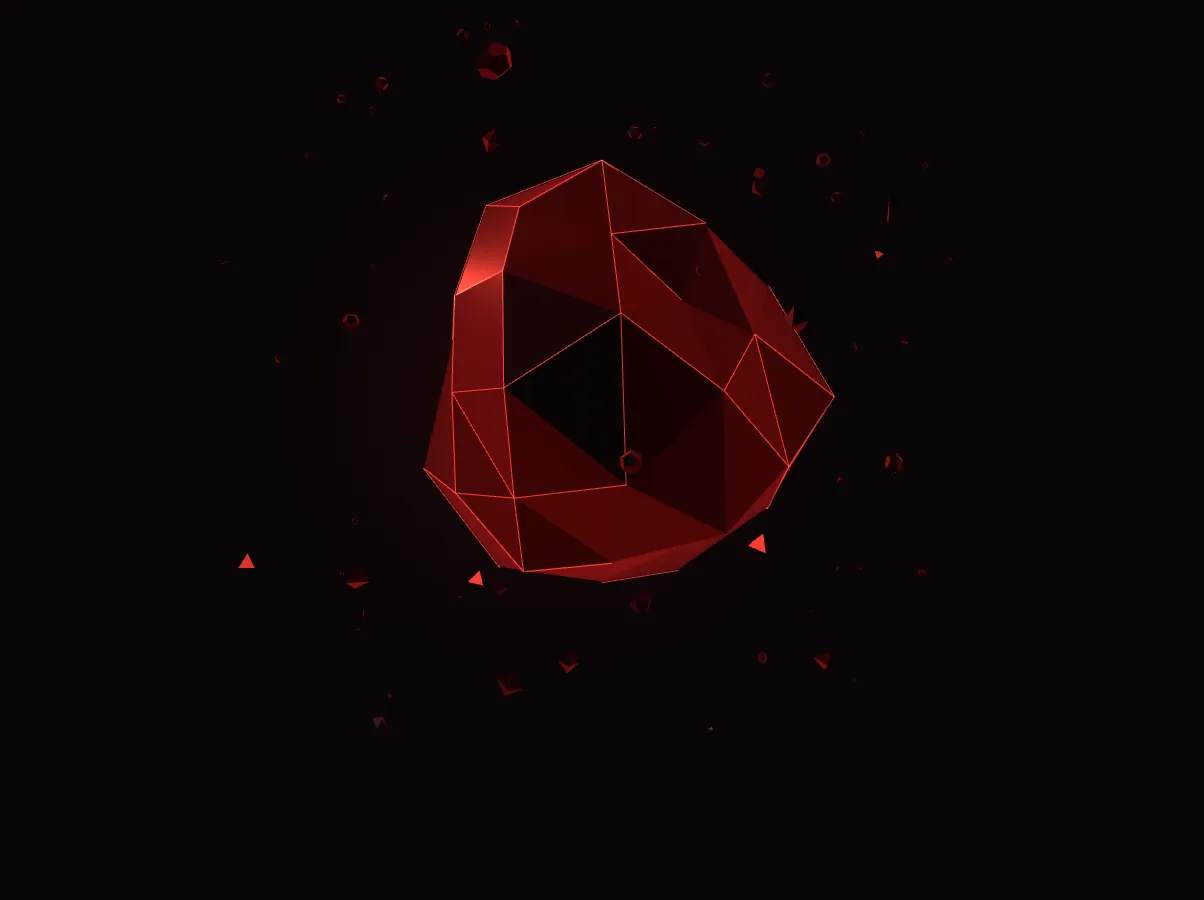
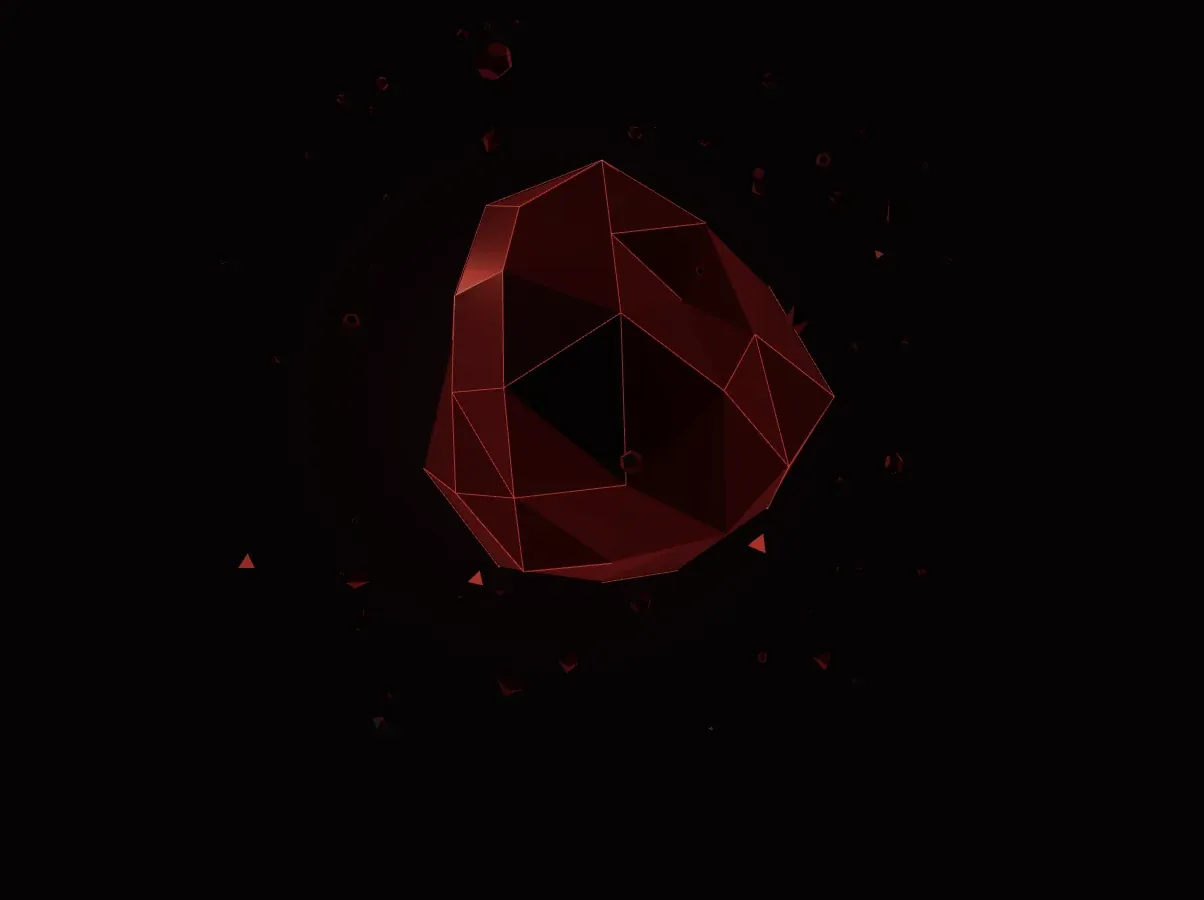
minimal: audit pass (scan on arrival with facts, live proof per project, one motion language, quiet pills, experience trace, skills list in place)

Changed region(s): [[0.338, 0.1867, 0.7068, 0.6533], [0.3995, 0.0622, 0.4302, 0.0933]]

diff --git a/minimal/app/globals.css b/minimal/app/globals.css
@@ -191,11 +191,12 @@ html.js .rv.in { opacity: 1; transform: none; }
 @media (max-width: 560px) { .pnl-inner { padding-left: 18px; } .pnl-head { gap: 12px; padding: 12px 14px; } .pnl-state { display: none; } }
 @media (prefers-reduced-motion: reduce) { .pnl-body, .pnl-sw i { transition: none; } }
 /* ---- hero photo: scan, black and white to colour ---- */
-.hero-photo img.ph-color { position: absolute; inset: 0; z-index: 2; width: 100%; height: 100%; object-fit: cover; display: block; clip-path: inset(0 0 0 0); animation: ph-color 1.6s .6s cubic-bezier(.45, 0, .25, 1) backwards; pointer-events: none; }
-.ph-scan { position: absolute; left: -10px; right: -10px; top: 0; z-index: 3; height: 2px; background: var(--blood-hot); box-shadow: 0 0 14px 2px rgba(224, 17, 43, .75); animation: ph-scan 1.6s .6s cubic-bezier(.45, 0, .25, 1) both; pointer-events: none; }
-.ph-color.again, .ph-scan.again { animation-delay: 0s; }
+.hero-photo img.ph-color { position: absolute; inset: 0; z-index: 2; width: 100%; height: 100%; object-fit: cover; display: block; clip-path: inset(0 0 0 0); animation: ph-color 1.6s .4s cubic-bezier(.45, 0, .25, 1) backwards; pointer-events: none; }
+.ph-scan { position: absolute; left: -10px; right: -10px; top: 0; bottom: 0; z-index: 3; pointer-events: none; animation: ph-scan 1.6s .4s cubic-bezier(.45, 0, .25, 1) both; }
+.ph-scan::before { content: ""; position: absolute; left: 0; right: 0; top: 0; height: 2px; margin-top: -1px; background: var(--blood-hot); box-shadow: 0 0 12px 2px rgba(224, 17, 43, .7); }
+.ph-color.again, .ph-scan.again, .ph-fact.again { animation-delay: 0s; }
 @keyframes ph-color { from { clip-path: inset(0 0 100% 0); } to { clip-path: inset(0 0 0 0); } }
-@keyframes ph-scan { 0% { top: 0; opacity: 1; } 92% { opacity: 1; } 100% { top: 100%; opacity: 0; } }
+@keyframes ph-scan { 0% { transform: translateY(0); opacity: 1; } 92% { opacity: 1; } 100% { transform: translateY(100%); opacity: 0; } }
 .hero-photo figcaption { display: flex; justify-content: space-between; gap: 12px; }
 @media (prefers-reduced-motion: reduce) { .ph-scan { display: none; } .ph-color { animation: none; } }
 
@@ -421,3 +422,57 @@ html:not(.js) .sk-all, .sk3d.no-gl .sk-all { display: none; }
 .sound.on i:nth-child(2) { animation-delay: -.3s; } .sound.on i:nth-child(3) { animation-delay: -.6s; } .sound.on i:nth-child(4) { animation-delay: -.15s; }
 @keyframes lvl { from { transform: scaleY(.25); } to { transform: scaleY(1); } }
 @media (prefers-reduced-motion: reduce) { .sound.on i { animation: none; } }
+
+/* ================= audit pass: one motion language (scan, trace, depth) ================= */
+/* the photo scan waits until the photo is actually on screen */
+.ph:not(.go) .ph-color, .ph:not(.go) .ph-scan, .ph:not(.go) .ph-fact { animation-play-state: paused; }
+.ph:not(.go) .ph-scan { visibility: hidden; }
+/* facts pinned to the photo as the scan line passes them */
+.ph-fact { position: absolute; z-index: 4; translate: 0 -50%; padding: 4px 8px; font: 500 10.5px/1 var(--mono); letter-spacing: .12em; text-transform: uppercase; color: var(--text); white-space: nowrap;
+  background: rgba(10, 5, 6, .82); border: 1px solid var(--blood); border-radius: 4px; pointer-events: none;
+  animation: ph-fact .45s calc(.4s + var(--at) * 1.25s) var(--ease) backwards; }
+.ph-fact.l { left: -14px; } .ph-fact.r { right: -14px; }
+.ph-fact.l::before, .ph-fact.r::after { content: ""; position: absolute; top: 50%; width: 10px; height: 1px; background: var(--blood-hot); }
+.ph-fact.l::before { right: -10px; } .ph-fact.r::after { left: -10px; }
+@keyframes ph-fact { from { opacity: 0; transform: translateX(-8px); } to { opacity: 1; transform: none; } }
+.ph-fact.r { animation-name: ph-fact-r; } @keyframes ph-fact-r { from { opacity: 0; transform: translateX(8px); } to { opacity: 1; transform: none; } }
+@media (max-width: 560px) { .ph-fact.l { left: 8px; } .ph-fact.r { right: 8px; } .ph-fact::before, .ph-fact::after { display: none; } }
+@media (prefers-reduced-motion: reduce) { .ph-fact { animation: none; } }
+
+/* skill pills are labels, not buttons: no hover lift or border change */
+.chips li { cursor: default; } .chips li:hover { transform: none; border-color: var(--line-2); }
+.chips li.used:hover { border-color: rgba(224, 17, 43, .55); }
+
+/* leadership: keep the sweep (scan) and the cascade; drop the spark and flicker */
+.pnl-row.is-on[data-touched] .pnl-sw::after, .pnl-row.is-on[data-touched] .pnl-logo, .pnl-row.is-on[data-touched] .pnl-state,
+.pnl-row[data-touched]:not(.is-on) .pnl-logo, .pnl-row[data-touched]:not(.is-on) .pnl-state { animation: none; }
+
+/* the photo section no longer repeats the name: its intro opens it */
+.hero .hero-intro { margin-top: 0; font-size: 17px; }
+
+/* project proof: one real number, drawn as the card arrives */
+.proof { margin: 0 0 16px; }
+.proof-n { display: flex; align-items: baseline; gap: 10px; margin: 0; } .proof-n b { font-size: 26px; font-weight: 400; color: var(--text); } .proof-n span { font-size: 11px; letter-spacing: .1em; text-transform: uppercase; color: var(--dim); }
+.proof-bar { position: relative; height: 8px; margin-top: 10px; border-radius: 2px; background: var(--line); }
+.proof-fill { position: absolute; inset: 0; border-radius: 2px; background: var(--blood-hot); transform-origin: 0 50%; transform: scaleX(var(--v)); }
+.proof-bar.ticks { background: repeating-linear-gradient(90deg, var(--line) 0 2px, transparent 2px 4px); }
+.proof-bar.ticks .proof-fill { background: repeating-linear-gradient(90deg, var(--blood-hot) 0 2px, transparent 2px 4px); }
+.proof-limit { position: absolute; top: -5px; bottom: -5px; width: 2px; background: var(--text); }
+.proof-limit span { position: absolute; top: -18px; left: 50%; translate: -50% 0; font-size: 9.5px; letter-spacing: .08em; text-transform: uppercase; color: var(--text); white-space: nowrap; }
+.proof { padding-top: 14px; } .proof figcaption { margin-top: 8px; font-size: 11px; color: var(--dim); }
+
+/* experience: a red trace draws down the date column as you read */
+.rows { position: relative; }
+.rows::before { content: ""; position: absolute; left: -14px; top: 0; bottom: 0; width: 1px; background: linear-gradient(var(--blood-hot), var(--blood)); transform-origin: 50% 0; transform: scaleY(1); opacity: .7; }
+
+/* skills: the full list opens in place under the corridor */
+html.js .sk3d.show-list:not(.no-gl) .sk-list { position: static; width: auto; height: auto; margin: 26px 0 0; overflow: visible; clip: auto; white-space: normal; }
+
+@media (prefers-reduced-motion: no-preference) { @supports (animation-timeline: view()) {
+  .proof-fill { animation: proof-draw linear both; animation-timeline: view(); animation-range: entry 30% cover 45%; }
+  @keyframes proof-draw { from { transform: scaleX(0); } to { transform: scaleX(var(--v)); } }
+  .rows::before { animation: trace linear both; animation-timeline: view(); animation-range: entry 10% exit 60%; }
+  @keyframes trace { from { transform: scaleY(0); } to { transform: scaleY(1); } }
+} }
+@media (max-width: 900px) { .rows::before { left: -10px; } }
+.proof-n b { white-space: nowrap; } .proof-n { flex-wrap: wrap; row-gap: 2px; } .proof-bar { margin-top: 24px; }

diff --git a/minimal/components/PhotoScan.tsx b/minimal/components/PhotoScan.tsx
@@ -1,23 +1,41 @@
 "use client";
-import { useRef, useState } from "react";
+import { useEffect, useRef, useState } from "react";
 
-/* The photo starts in black and white. A red scan line sweeps down once on load and full colour develops behind it. Hovering runs the scan again. */
+/* The photo starts in black and white. When it comes into view (not on page load, when nobody can see it), a red scan
+   line sweeps down, full colour develops behind it, and three facts are pinned to the photo as the line passes them.
+   Hovering runs the scan again. */
+const TAGS = [
+  { text: "BSIT · Data Science", at: 0.2, side: "l" },
+  { text: "PUP Manila", at: 0.5, side: "r" },
+  { text: "Open to internships", at: 0.78, side: "l" },
+];
+
 export function PhotoScan({ children }: { children: React.ReactNode }) {
   const [run, setRun] = useState(0);
+  const [go, setGo] = useState(false);
+  const box = useRef<HTMLDivElement>(null);
   const last = useRef(0);
+  useEffect(() => {
+    const io = new IntersectionObserver(([e]) => { if (e.isIntersecting) { setGo(true); io.disconnect(); } }, { threshold: 0.45 });
+    if (box.current) io.observe(box.current);
+    return () => io.disconnect();
+  }, []);
   const again = () => {
     const now = Date.now();
-    if (now - last.current < 2200) return;   // let a sweep finish before another can start
+    if (!go || now - last.current < 2200) return;   // let a sweep finish before another can start
     last.current = now;
     setRun((r) => r + 1);
   };
   const cls = run ? " again" : "";
   return (
-    <div className="ph" onMouseEnter={again}>
+    <div ref={box} className={"ph" + (go ? " go" : "")} onMouseEnter={again}>
       {children}
       <img key={"c" + run} className={"ph-color" + cls} aria-hidden="true" alt="" width={960} height={1200} decoding="async" fetchPriority="low"
         src="/assets/hero-c-960.webp" srcSet="/assets/hero-c-640.webp 640w, /assets/hero-c-960.webp 960w, /assets/hero-c-1280.webp 1280w" sizes="(max-width: 900px) 80vw, 340px" />
       <i key={"s" + run} className={"ph-scan" + cls} aria-hidden="true" />
+      {TAGS.map((t) => (
+        <span key={t.text + run} className={`ph-fact ${t.side}` + cls} style={{ top: `${t.at * 100}%`, "--at": t.at } as React.CSSProperties} aria-hidden="true">{t.text}</span>
+      ))}
     </div>
   );
 }

diff --git a/minimal/components/Projects.tsx b/minimal/components/Projects.tsx
@@ -99,9 +99,38 @@ function ProjectCard({ p, n, onOpen }: { p: Project; n: number; onOpen: (p: Proj
       <div className="pmeta">
         <p className="mono label-red">{p.eyebrow}</p>
         <h3 className="pixel ptitle">{p.title}</h3>
+        <Proof p={p} />
         <button type="button" className="btn solid" onClick={open}>Open the case file</button>
       </div>
     </article>
+  );
+}
+
+/* One real number per project, drawn when the card arrives, so the proof is visible without opening anything. */
+function Proof({ p }: { p: Project }) {
+  if (p.slug === "aura") {
+    const m = p.metrics?.find((x) => x.value.includes("pts"));
+    if (!m) return null;
+    const gap = parseFloat(m.value), limit = 5, max = 25;
+    return (
+      <figure className="proof">
+        <p className="proof-n"><b className="pixel">{m.value}</b><span className="mono">accuracy gap across skin-tone bands</span></p>
+        <div className="proof-bar" role="img" aria-label={`Accuracy gap ${gap} points against a ${limit}-point launch limit`}>
+          <i className="proof-fill" style={{ "--v": gap / max } as React.CSSProperties} />
+          <i className="proof-limit" style={{ left: `${(limit / max) * 100}%` }}><span className="mono">{limit}-pt limit</span></i>
+        </div>
+        <figcaption className="mono">held back from launch by my own fairness gate until it passes</figcaption>
+      </figure>
+    );
+  }
+  const m = p.metrics?.find((x) => /trials/.test(x.label));
+  if (!m) return null;
+  return (
+    <figure className="proof">
+      <p className="proof-n"><b className="pixel">{m.value}</b><span className="mono">randomized trials</span></p>
+      <div className="proof-bar ticks" role="img" aria-label={m.label}><i className="proof-fill" style={{ "--v": 1 } as React.CSSProperties} /></div>
+      <figcaption className="mono">in the test that checks every score equals the sum of its reasons</figcaption>
+    </figure>
   );
 }
 

diff --git a/minimal/components/Backdrop.tsx b/minimal/components/Backdrop.tsx
@@ -2,7 +2,7 @@
 import { useEffect, useRef } from "react";
 
 /* The page backdrop: a faint data grid, a soft red glow that follows the pointer (and drifts on its own when idle or on touch),
-   a small ring where you click, and a slow scan band. Transform and opacity only, one rAF while the pointer moves. */
+   and a slow scan band. Transform and opacity only, one rAF while the pointer moves. */
 export function Backdrop() {
   const glow = useRef<HTMLDivElement>(null);
   const fx = useRef<HTMLDivElement>(null);
@@ -22,16 +22,10 @@ export function Backdrop() {
       clearTimeout(idle); idle = window.setTimeout(() => root.classList.add("idle"), 4000);
       if (!raf) raf = requestAnimationFrame(tick);
     };
-    const down = (e: PointerEvent) => {
-      if (reduce || root.childElementCount > 6) return;
-      const r = document.createElement("i"); r.className = "bg-ring";
-      r.style.left = `${e.clientX}px`; r.style.top = `${e.clientY}px`;
-      root.appendChild(r); r.addEventListener("animationend", () => r.remove(), { once: true });
-    };
     g.style.transform = `translate3d(${x}px, ${y}px, 0)`;
     if (matchMedia("(pointer: coarse)").matches) root.classList.add("idle");
-    addEventListener("pointermove", move, { passive: true }); addEventListener("pointerdown", down, { passive: true });
-    return () => { removeEventListener("pointermove", move); removeEventListener("pointerdown", down); cancelAnimationFrame(raf); clearTimeout(idle); };
+    addEventListener("pointermove", move, { passive: true });
+    return () => { removeEventListener("pointermove", move); cancelAnimationFrame(raf); clearTimeout(idle); };
   }, []);
   return (
     <div ref={fx} className="bg-fx" aria-hidden="true">

diff --git a/minimal/components/Sections.tsx b/minimal/components/Sections.tsx
@@ -5,6 +5,7 @@ import { CertButton } from "./Dialogs";
 import { LeadershipMap } from "./LeadershipMap";
 import { SkillsScene } from "./SkillsScene";
 import { SkillGroups } from "./SkillList";
+import { SkillsToggle } from "./SkillsToggle";
 
 type Logo = { path: string; hex: string; title: string };
 type Badge = { src: string; alt: string; round?: boolean; wide?: boolean };
@@ -48,8 +49,8 @@ export function Skills() {
       <p className="about-sub rv">What I work with across data and software, plus the tools I use to build and collaborate.</p>
       <div className="sk3d">
         <SkillsScene />
-        <a className="sk-all mono" href="/skills">View all skills <span aria-hidden="true">→</span></a>
-        <div className="sk-list">
+        <SkillsToggle />
+        <div className="sk-list" id="skills-list">
           <SkillGroups />
         </div>
       </div>

diff --git a/minimal/components/SkillsToggle.tsx b/minimal/components/SkillsToggle.tsx
@@ -1,0 +1,18 @@
+"use client";
+import { useState } from "react";
+
+/* "View all skills": opens the full list right under the corridor instead of sending you to another page. */
+export function SkillsToggle() {
+  const [open, setOpen] = useState(false);
+  const toggle = (e: React.MouseEvent<HTMLButtonElement>) => {
+    const wrap = e.currentTarget.closest(".sk3d");
+    wrap?.classList.toggle("show-list", !open);
+    if (!open) requestAnimationFrame(() => wrap?.querySelector(".sk-list")?.scrollIntoView({ behavior: "smooth", block: "start" }));
+    setOpen(!open);
+  };
+  return (
+    <button type="button" className="sk-all mono" aria-expanded={open} aria-controls="skills-list" onClick={toggle}>
+      {open ? "Hide the full list" : "View all skills"} <span aria-hidden="true">{open ? "↑" : "↓"}</span>
+    </button>
+  );
+}

diff --git a/minimal/components/Hero.tsx b/minimal/components/Hero.tsx
@@ -8,8 +8,6 @@ export function Hero() {
   return (
     <section id="hello" className="hero" aria-label="Introduction">
       <div className="hero-copy">
-        <h2 className="hero-name pixel">{profile.name}<i className="caret" aria-hidden="true" /></h2>
-        <p className="mono hero-kicker">{profile.kicker}</p>
         <p className="hero-intro">
           <Hl i={0}>BSIT student</Hl> at <Hl i={1}>PUP Manila</Hl>, specializing in <Hl i={2}>Data Science</Hl>.
           {" "}Looking for <Hl i={3}>data science, analytics and technical internships</Hl>. Based in <em className="serif">Manila, Philippines.</em>
